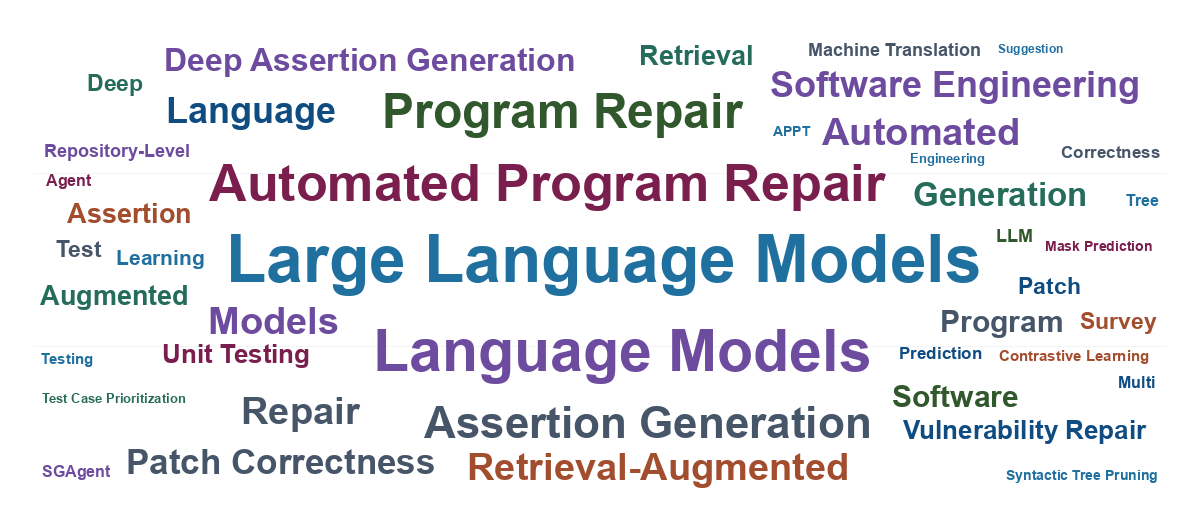
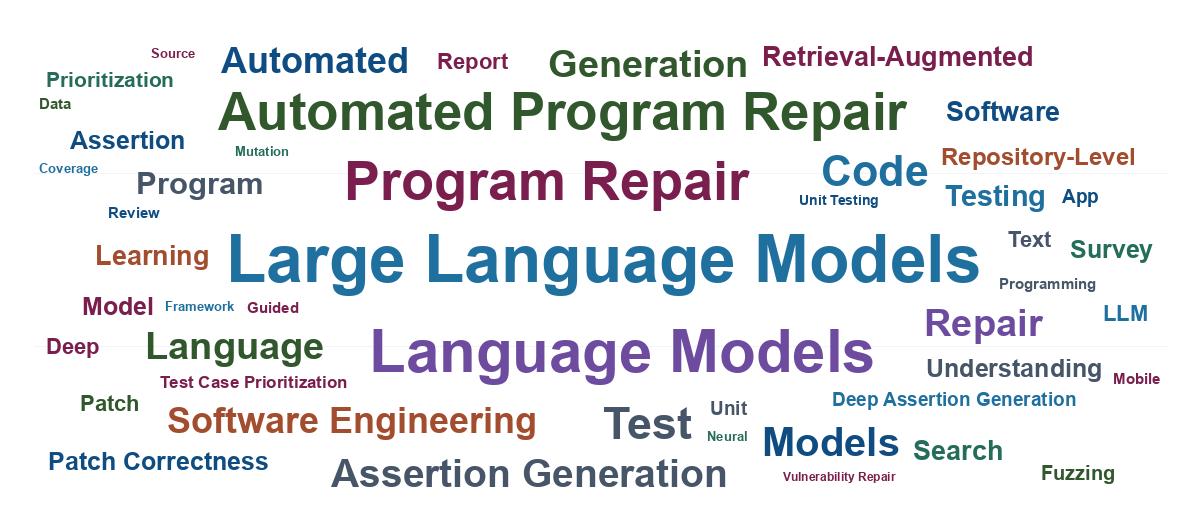
Update publications from Google Sites

diff --git a/assets/css/main.scss b/assets/css/main.scss
@@ -186,7 +186,7 @@ h1:before, .anchor:before {
     object-fit: contain;
 }
 
-.page__content li p code + strong + br + strong {
+.page__content li p br ~ strong {
     color: #7b1fa2;
     font-weight: 700;
 }

diff --git a/_pages/publications.md b/_pages/publications.md
@@ -8,72 +8,248 @@ author_profile: true
 
 [[Selected Publications](/#selected-publications)] [[Google Scholar](https://scholar.google.com/citations?user=zRzZ8HwAAAAJ&hl=zh-CN)] [[DBLP](https://dblp.org/pid/231/4867.html)] [[GitHub](https://github.com/QuanjunZhang)]
 
-Note: equal contribution is noted where applicable.
+Note: equal contribution is noted where applicable. An asterisk (*) is preserved where marked in the source list.
 
-- `TOSEM'26` **SGAgent: Suggestion-Guided LLM-Based Multi-Agent Framework for Repository-Level Software Repair**.  
+## Preprints
+
+- `Preprint` **A Critical Review of Large Language Model on Software Engineering: An Example from ChatGPT and Automated Program Repair**.  
+  **Quanjun Zhang**, Tongke Zhang, Juan Zhai, Chunrong Fang, Bowen Yu, Weisong Sun, Zhenyu Chen.  
+  [[PDF](https://arxiv.org/pdf/2310.08879.pdf)] [[Data](https://github.com/iSEngLab/EvalGPTFix)]
+
+- `Preprint` **Program repair: Automated vs. manual**.  
+  **Quanjun Zhang**, Yuan Zhao, Weisong Sun, Chunrong Fang, Ziyuan Wang, Lingming Zhang.  
+  [[PDF](https://arxiv.org/pdf/2203.05166.pdf)] [[Data](https://github.com/QuanjunZhang/2022-APREmpirical)]
+
+- `Preprint` **No Man is an Island: Towards Fully Automatic Programming by Code Search, Code Generation and Program Repair**.  
+  **Quanjun Zhang**, Chunrong Fang, Ye Shang, Tongke Zhang, Shengcheng Yu, Zhenyu Chen.  
+  [[PDF](https://arxiv.org/pdf/2203.05166.pdf)] [[Data](https://github.com/QuanjunZhang/2022-APREmpirical)]
+
+## Publications
+
+- `ISSTA'26` **Understanding and Improving Model Editing for Secure Code Generation**. (<span class="ccf-a">CCF-A</span>)  
+  Weifeng Sun, **Quanjun Zhang**, Yuchen Chen, Chengran Yang, Gou Tan, and David Lo.  
+  In *Proceedings of the ACM SIGSOFT International Symposium on Software Testing and Analysis*, pages to appear.
+
+- `ISSTA'26` **Towards More Realistic Assertion Generation under Mixed-Assertion Scenario**. (<span class="ccf-a">CCF-A</span>)  
+  Hongyan Li, Kunpeng E, Weifeng Sun, **Quanjun Zhang**, and Meng Yan.  
+  In *Proceedings of the ACM SIGSOFT International Symposium on Software Testing and Analysis*, pages to appear.
+
+- `ASE'26` **PSearch: Search-based Patch Generation in the Era of LLM-based Automated Program Repair**. (<span class="ccf-a">CCF-A</span>)  
+  Haichuan Hu, Ye Shang, Weifeng Sun, and **Quanjun Zhang**\*.  
+  In *Proceedings of the IEEE/ACM International Conference on Automated Software Engineering*, pages to appear.
+
+- `IJCV'26` **UBA: A Unified Black-Box Adversarial Testing for Object Detection via Visualization-Based Contextual Reconstruction**. (<span class="ccf-a">CCF-A</span>)  
+  Jiawei Liu, Weisi Luo, Chunrong Fang, **Quanjun Zhang**, Junyi Xie, Dezhi Li, Jiang Wang, Zhenyu Chen.  
+  In *International Journal of Computer Vision*, pages to appear, 2026.
+
+- `TOSEM'26` **SGAgent: Suggestion-Guided LLM-Based Multi-Agent Framework for Repository-Level Software Repair**. (<span class="ccf-a">CCF-A</span>)  
   **Quanjun Zhang**, Chengyu Gao, Yu Han, Ye Shang, Chunrong Fang, Zhenyu Chen, Liang Xiao.  
-  In *ACM Transactions on Software Engineering and Methodology*, pages to appear, 2026. <span class="ccf-a">(CCF-A)</span>
+  In *ACM Transactions on Software Engineering and Methodology*, pages to appear, 2026.
 
-- `EMSE'26` **ComPass: Contrastive Learning for Automated Patch Correctness Assessment in Program Repair**.  
+- `EMSE'26` **ComPass: Contrastive Learning for Automated Patch Correctness Assessment in Program Repair**. (CCF-B)  
   **Quanjun Zhang**, Ye Shang, Haichuan Hu, Chunrong Fang, Zhenyu Chen, Liang Xiao.  
-  In *Empirical Software Engineering*, pages to appear, 2026. (CCF-B)
+  In *Empirical Software Engineering*, pages to appear, 2026.
 
-- `TOSEM'26` **A Systematic Literature Review on Large Language Models for Automated Program Repair**.  
+- `TOSEM'26` **A Systematic Literature Review on Large Language Models for Automated Program Repair**. (<span class="ccf-a">CCF-A</span>)  
   **Quanjun Zhang**, Chunrong Fang, Yuxiang Ma, Yang Xie, Weisong Sun, Yun Yang, Zhenyu Chen.  
-  In *ACM Transactions on Software Engineering and Methodology*, pages to appear, 2026. <span class="ccf-a">(CCF-A)</span>
+  In *ACM Transactions on Software Engineering and Methodology*, pages to appear, 2026. [[arXiv](https://arxiv.org/abs/2405.01466)] [[Data](https://github.com/iSEngLab/AwesomeLLM4APR)]
 
-- `TSE'25` **Improving Retrieval-Augmented Deep Assertion Generation via Joint Training**.  
-  **Quanjun Zhang**, Chunrong Fang, Yi Zheng, Ruixiang Qian, Shengcheng Yu, Yuan Zhao, Jianyi Zhou, Yun Yang, Tao Zheng, Zhenyu Chen.  
-  In *IEEE Transactions on Software Engineering*, pages to appear, 2025. <span class="ccf-a">(CCF-A)</span> [[Data](https://github.com/iSEngLab/AG-RAG)]
+- `CSR'26` **A survey of large language models for legal tasks: Progress, prospects and challenges**. (SCI-Q1, IF 12.8)  
+  Congqing He, Haichuan Hu, Yanli Li, Hao Zhang, **Quanjun Zhang**.  
+  In *Computer Science Review*, pages to appear, 2026.
 
-- `TOSEM'25` **Improving Deep Assertion Generation via Fine-Tuning Retrieval-Augmented Pre-trained Language Models**.  
-  **Quanjun Zhang**, Chunrong Fang, Yi Zheng, Yaxin Zhang, Yuan Zhao, Rubing Huang, Jianyi Zhou, Yun Yang, Tao Zheng, Zhenyu Chen.  
-  In *ACM Transactions on Software Engineering and Methodology*, pages to appear, 2025. <span class="ccf-a">(CCF-A)</span>
+- `TOSEM'26` **Abstract Syntax Tree for Programming Language Understanding and Representation**.  
+  Weisong Sun, Chunrong Fang, Yun Miao, Mengzhe Yuan, Zhenpeng Chen, Yuchen Chen, **Quanjun Zhang**, An Guo, Xiang Chen, Zhenyu Chen.  
+  In *ACM Transactions on Software Engineering and Methodology*, pages to appear, 2026.
 
-- `SCIS'25` **A Survey on Large Language Models for Software Engineering**.  
+- `QRS'26` **AttnProbe: Steering LLM Attention for Unit Test Generation via Coverage-Guided Pruning and Mutation Feedback**. (CCF-C)  
+  Siqi Gu, Jiawei Liu, Zhaowei Zong, **Quanjun Zhang**, Zhenyu Chen.  
+  In *International Conference on Software Quality, Reliability and Security*, pages to appear, 2026.
+
+- `FSE'25-Tool` **A Multi-Agent LLM Framework for Repository-Level Unit Test Generation**. (<span class="ccf-a">CCF-A</span>)  
+  Ye Shang, **Quanjun Zhang**\*, Zhenyu Zhan, Ke Huang, Chunrong Fang\*, Zhenyu Chen.  
+  In *ACM International Conference on the Foundations of Software Engineering, Tool Demonstrations Track*, pages to appear.
+
+- `TOSEM'25` **Pre-trained Model-based Actionable Warning Identification: A Feasibility Study**. (<span class="ccf-a">CCF-A</span>)  
+  Xiuting Ge, Chunrong Fang, **Quanjun Zhang**, Daoyuan Wu, Bowen Yu, Qirui Zheng, An Guo, Shang-wei Lin, Zhihong Zhao, Yang Liu, Zhenyu Chen.  
+  In *ACM Transactions on Software Engineering and Methodology*, pages to appear, 2025.
+
+- `SCIS'25` **A Survey on Large Language Models for Software Engineering**. (<span class="ccf-a">CCF-A</span>)  
   **Quanjun Zhang**, Chunrong Fang, Yang Xie, Yaxin Zhang, Shengcheng Yu, Weisong Sun, Yun Yang, Zhenyu Chen.  
-  In *SCIENCE CHINA Information Sciences*, pages to appear, 2025. <span class="ccf-a">(CCF-A)</span>
+  In *SCIENCE CHINA Information Sciences*, pages to appear, 2025. [[arXiv](https://arxiv.org/abs/2312.15223)] [[Data](https://github.com/iSEngLab/AwesomeLLM4SE)]
 
-- `FCS'25` **TestBench: Evaluating Class-Level Test Case Generation Capability of Large Language Models**.  
+- `CSUR'25` **Vision-Based Mobile App GUI Testing: A Survey**. (SCI-Q1)  
+  Shengcheng Yu, Chunrong Fang, Ziyuan Tuo, **Quanjun Zhang**, Chunyang Chen, Zhenyu Chen, Zhendong Su.  
+  In *ACM Computing Surveys*, pages to appear, 2025.
+
+- `TOSEM'25` **Hidden Backdoor Attack against Neural Code Search Models**. (<span class="ccf-a">CCF-A</span>)  
+  Yuchen Chen, Weisong Sun, Chunrong Fang, **Quanjun Zhang**, Zhenyu Chen, Xiangyu Zhang.  
+  In *ACM Transactions on Software Engineering and Methodology*, pages to appear, 2025.
+
+- `FCS'25` **TestBench: Evaluating Class-Level Test Case Generation Capability of Large Language Models**. (CCF-B)  
   **Quanjun Zhang**, Ye Shang, Chunrong Fang, Siqi Gu, Jianyi Zhou, Zhenyu Chen.  
-  In *Frontiers of Computer Science*, pages to appear, 2025. (CCF-B)
+  In *Frontiers of Computer Science*, pages to appear, 2025.
 
-- `JOS'25` **Research Progress of Retrieval-Augmented Generation in Software Engineering**.  
-  **Quanjun Zhang**, Yang Xie, Chunrong Fang, Shengcheng Yu, Yuan Zhao, Zhenyu Chen.  
-  In *Journal of Software* (in Chinese), pages to appear, 2025. <span class="ccf-a">(CCF-A)</span>
+- `TOSEM'25` **ACTesting: Automated Cross-modal Testing Method of Text-to-Image Software**. (<span class="ccf-a">CCF-A</span>)  
+  Siqi Gu, Chunrong Fang, **Quanjun Zhang**, Zhenyu Chen.  
+  In *ACM Transactions on Software Engineering and Methodology*, pages to appear, 2025.
 
-- `TOSEM'24` **Exploring Automated Assertion Generation via Large Language Models**.  
-  **Quanjun Zhang**, Weifeng Sun, Chunrong Fang, Bowen Yu, Hongyan Li, Meng Yan, Jianyi Zhou, Zhenyu Chen.  
-  In *ACM Transactions on Software Engineering and Methodology*, pages to appear, 2024. <span class="ccf-a">(CCF-A)</span>
+- `TOSEM'25` **Security of Language Models for Code: A Systematic Literature Review**. (<span class="ccf-a">CCF-A</span>)  
+  Yuchen Chen, Weisong Sun, Chunrong Fang, Zhenpeng Chen, Yifei Ge, Tingxu Han, **Quanjun Zhang**, Yang Liu, Zhenyu Chen, Baowen Xu.  
+  In *ACM Transactions on Software Engineering and Methodology*, pages to appear, 2025.
 
-- `TSE'24` **APPT: Boosting Automated Patch Correctness Prediction via Fine-tuning Pre-trained Models**.  
-  **Quanjun Zhang**, Chunrong Fang, Weisong Sun, Yan Liu, Tieke He, Xiaodong Hao, Zhenyu Chen.  
-  In *IEEE Transactions on Software Engineering*, pages to appear, 2024. <span class="ccf-a">(CCF-A)</span>
+- `TSE'25` **Improving Retrieval-Augmented Deep Assertion Generation via Joint Training**. (<span class="ccf-a">CCF-A</span>)  
+  **Quanjun Zhang**, Chunrong Fang, Yi Zheng, Ruixiang Qian, Shengcheng Yu, Yuan Zhao, Jianyi Zhou, Yun Yang, Tao Zheng, Zhenyu Chen.  
+  In *IEEE Transactions on Software Engineering*, pages to appear, 2025.
 
-- `TOSEM'24` **Machine Translation Testing via Syntactic Tree Pruning**.  
-  **Quanjun Zhang**, Juan Zhai, Chunrong Fang, Jiawei Liu, Weisong Sun, Haichuan Hu, Qingyu Wang.  
-  In *ACM Transactions on Software Engineering and Methodology*, 39 pages, 2024. <span class="ccf-a">(CCF-A)</span> [[Data](https://github.com/iSEngLab/STP)]
+- `TOSEM'25` **Improving Deep Assertion Generation via Fine-Tuning Retrieval-Augmented Pre-trained Language Models**. (<span class="ccf-a">CCF-A</span>)  
+  **Quanjun Zhang**, Chunrong Fang, Yi Zheng, Yaxin Zhang, Yuan Zhao, Rubing Huang, Jianyi Zhou, Yun Yang, Tao Zheng, Zhenyu Chen.  
+  In *ACM Transactions on Software Engineering and Methodology*, pages to appear, 2025.
 
-- `TOSEM'23` **A Survey of Learning-based Automated Program Repair**.  
-  **Quanjun Zhang**, Chunrong Fang, Yuxiang Ma, Weisong Sun, Zhenyu Chen.  
-  In *ACM Transactions on Software Engineering and Methodology*, 69 pages, 2023. <span class="ccf-a">(CCF-A)</span> [[PDF](https://arxiv.org/pdf/2308.12533.pdf)] [[Data](https://github.com/iSEngLab/AwesomeLearningAPR)]
-
-- `TDSC'23` **Pre-trained Model-based Automated Software Vulnerability Repair: How Far are We?**  
-  **Quanjun Zhang**, Chunrong Fang, Bowen Yu, Weisong Sun, Tongke Zhang, Zhenyu Chen.  
-  In *IEEE Transactions on Dependable and Secure Computing*, pages to appear, 2023. <span class="ccf-a">(CCF-A)</span> [[PDF](https://arxiv.org/pdf/2309.09308.pdf)] [[Data](https://github.com/iSEngLab/LLM4VulFix)]
-
-- `ASE'23` **GAMMA: Revisiting Template-based Automated Program Repair via Mask Prediction**.  
-  **Quanjun Zhang**, Chunrong Fang, Tongke Zhang, Bowen Yu, Weisong Sun, Zhenyu Chen.  
-  In *38th IEEE/ACM International Conference on Automated Software Engineering*, pages to appear, 2023. <span class="ccf-a">(CCF-A)</span>
-
-- `JSS'22` **Test Case Prioritization Using Partial Attention**.  
-  **Quanjun Zhang**, Chunrong Fang, Weisong Sun, Shencheng Yu, Yutao Xu, Yulei Liu.  
-  In *Journal of Systems & Software*, pages to appear, 2022. (CCF-B)
-
-- `ISSTA'25` **A Large-scale Empirical Study on Fine-tuning Large Language Models for Unit Testing**.  
+- `ISSTA'25` **A Large-scale Empirical Study on Fine-tuning Large Language Models for Unit Testing**. (<span class="ccf-a">CCF-A</span>, Equal Contribution)  
   Ye Shang, **Quanjun Zhang** (equal contribution), Chunrong Fang, Siqi Gu, Jianyi Zhou, Zhenyu Chen.  
-  In *Proceedings of the ACM SIGSOFT International Symposium on Software Testing and Analysis*, pages to appear, 2025. <span class="ccf-a">(CCF-A)</span>
+  In *Proceedings of the ACM SIGSOFT International Symposium on Software Testing and Analysis (ISSTA 2025)*, pages to appear. [Acceptance rate: 4.16% (23 / 553)]
 
-- `ISSTA'22` **CIRCLE: Continual Repair across Programming Languages**.  
+- `JOS'25` **Deep Learning Operator Testing for RISC-V Architecture**. (<span class="ccf-a">CCF-A</span>)  
+  Jiawei Liu, Yan Gao, **Quanjun Zhang**, Ye Shang, Chunrong Fang, Zhenyu Chen.  
+  In *Journal of Software* (in Chinese), pages to appear, 2025.
+
+- `JOS'25` **Research Progress of Retrieval-Augmented Generation in Software Engineering**. (<span class="ccf-a">CCF-A</span>)  
+  **Quanjun Zhang**, Yang Xie, Chunrong Fang\*, Shengcheng Yu, Yuan Zhao, Zhenyu Chen.  
+  In *Journal of Software* (in Chinese), pages to appear, 2025.
+
+- `JOS'25` **Semantic Matching-based Cross-Platform Mobile App Test Script Record and Replay via Large Language Models**. (<span class="ccf-a">CCF-A</span>)  
+  Shengcheng Yu, Chunrong Fang\*, Ye Zhong, **Quanjun Zhang**, Qin Liu, Jia Liu, Tao Zheng, Zhenyu Chen.  
+  In *Journal of Software* (in Chinese), pages to appear, 2024.
+
+- `TSE'24` **Enhanced Crowdsourced Test Report Prioritization via Image-and-Text Semantic Understanding and Feature Integration**. (<span class="ccf-a">CCF-A</span>)  
+  Chunrong Fang, Shengcheng Yu, **Quanjun Zhang**, Xin Li, Yulei Liu, and Zhenyu Chen.  
+  In *IEEE Transactions on Software Engineering*, pages to appear, 2024.
+
+- `APR'25` **Can GPT-O1 Kill All Bugs? An Evaluation of GPT-Family LLMs on QuixBugs**. (Corresponding Author)  
+  Haichuan Hu, Ye Shang, Guolin Xu, Congqing He, **Quanjun Zhang**\*.  
+  In *The 6th International Workshop on Automated Program Repair (APR 2025)*.
+
+- `FSE'25` **Eliminating Backdoors in Neural Code Models for Secure Code Understanding**. (<span class="ccf-a">CCF-A</span>)  
+  Weisong Sun, Yuchen Chen, Chunrong Fang, Yebo Feng, Yuan Xiao, An Guo, **Quanjun Zhang**, Zhenyu Chen, Baowen Xu, Yang Liu.  
+  In *Proceedings of the ACM International Conference on the Foundations of Software Engineering (FSE 2025)*, pages to appear.
+
+- `QRS'25` **Chattss: Improving Test Suite Simplification Via Large Language Models**. (CCF-C)  
+  Gaolei Yi, Yuan Zhao, Runkang Feng, **Quanjun Zhang**, Zhenyu Chen.  
+  In *International Conference on Software Quality, Reliability and Security (QRS)*, pages to appear.
+
+- `TOSEM'24` **Exploring Automated Assertion Generation via Large Language Models**. (<span class="ccf-a">CCF-A</span>)  
+  **Quanjun Zhang**, Weifeng Sun, Chunrong Fang, Bowen Yu, Hongyan Li, Meng Yan, Jianyi Zhou, Zhenyu Chen.  
+  In *ACM Transactions on Software Engineering and Methodology*, pages to appear, 2024.
+
+- `TOSEM'24` **FunFuzz: Greybox Fuzzing with Function Significance**. (<span class="ccf-a">CCF-A</span>)  
+  Ruixiang Qian, **Quanjun Zhang**, Chunrong Fang, Lihua Guo, Zhenyu Chen.  
+  In *ACM Transactions on Software Engineering and Methodology*, pages to appear, 2024.
+
+- `FSE'24` **Semi-Supervised Crowdsourced Test Report Clustering via Screenshot-Text Binding Rules**. (<span class="ccf-a">CCF-A</span>)  
+  Shengcheng Yu, Chunrong Fang\*, **Quanjun Zhang**, Mingzhe Du, Jia Liu, Zhenyu Chen.  
+  In *Proceedings of the 32nd ACM Symposium on the Foundations of Software Engineering (FSE '24)*, July 15--19, 2024, Porto de Galinhas, Brazil.
+
+- `TOSEM'24` **DiPri: Distance-based Seed Prioritization for Greybox Fuzzing**. (<span class="ccf-a">CCF-A</span>)  
+  Ruixiang Qian, **Quanjun Zhang**, Chunrong Fang, Yang Ding, Shun Li, Zhenyu Chen.  
+  In *ACM Transactions on Software Engineering and Methodology*, pages to appear, 2024.
+
+- `TOSEM'24` **A Survey of Source Code Search: A 3-Dimensional Perspective**. (<span class="ccf-a">CCF-A</span>)  
+  Weisong Sun, Chunrong Fang, Yifei Ge, Yuling Hu, Yuchen Chen, **Quanjun Zhang**, Xiuting Ge, Yang Liu, Zhenyu Chen.  
+  In *ACM Transactions on Software Engineering and Methodology*, pages to appear, 2024.
+
+- `SCIS'24` **Improving Actionable Warning Identification via the Refined Warning-inducing Context Representation**. (<span class="ccf-a">CCF-A</span>)  
+  Xiuting Ge, Chunrong Fang, Xuanye Li, **Quanjun Zhang**, Jia Liu, Zhihong Zhao, Zhenyu Chen.  
+  In *SCIENCE CHINA Information Sciences*, pages to appear, 2024.
+
+- `TSE'24` **ESALE: Enhancing Code-Summary Alignment Learning for Source Code Summarization**. (<span class="ccf-a">CCF-A</span>)  
+  Chunrong Fang, Weisong Sun, Yuchen Chen, Xiao Chen, Zhao Wei, **Quanjun Zhang**, Yudu You, Bin Luo, Yang Liu, Zhenyu Chen.  
+  In *IEEE Transactions on Software Engineering*, 50(8):2077-2095, 2024.
+
+- `TSE'24` **APPT: Boosting Automated Patch Correctness Prediction via Fine-tuning Pre-trained Models**. (<span class="ccf-a">CCF-A</span>)  
+  **Quanjun Zhang**, Chunrong Fang, Weisong Sun, Yan Liu, Tieke He, Xiaodong Hao, Zhenyu Chen.  
+  In *IEEE Transactions on Software Engineering*, pages to appear, 2024. [[arXiv](https://arxiv.org/abs/2301.12453)] [[Data](https://github.com/iSEngLab/APPT)]
+
+- `TOSEM'24` **Machine Translation Testing via Syntactic Tree Pruning**. (<span class="ccf-a">CCF-A</span>)  
+  **Quanjun Zhang**, Juan Zhai, Chunrong Fang, Jiawei Liu, Weisong Sun, Haichuan Hu and Qingyu Wang.  
+  In *ACM Transactions on Software Engineering and Methodology*, 39 pages, 2024. [[PDF](https://arxiv.org/abs/2401.00751)] [[Data](https://github.com/iSEngLab/STP)]
+
+- `TOSEM'23` **A Survey of Learning-based Automated Program Repair**. (<span class="ccf-a">CCF-A</span>, SCI Q1)  
+  **Quanjun Zhang**, Chunrong Fang, Yuxiang Ma, Weisong Sun, Zhenyu Chen.  
+  In *ACM Transactions on Software Engineering and Methodology*, 69 pages, 2023. [[PDF](https://arxiv.org/abs/2301.03270)] [[Data](https://github.com/iSEngLab/AwesomeLearningAPR)]
+
+- `TDSC'23` **Pre-trained Model-based Automated Software Vulnerability Repair: How Far are We?**. (<span class="ccf-a">CCF-A</span>, SCI Q1)  
+  **Quanjun Zhang**, Chunrong Fang, Bowen Yu, Weisong Sun, Tongke Zhang, Zhenyu Chen.  
+  In *IEEE Transactions on Dependable and Secure Computing*, pages to appear, 2023. [[PDF](https://arxiv.org/pdf/2308.12533.pdf)] [[Data](https://github.com/iSEngLab/LLM4VulFix)]
+
+- `ASE'23` **GAMMA: Revisiting Template-based Automated Program Repair via Mask Prediction**. (<span class="ccf-a">CCF-A</span>)  
+  **Quanjun Zhang**, Chunrong Fang, Tongke Zhang, Bowen Yu, Weisong Sun, Zhenyu Chen.  
+  In *38th IEEE/ACM International Conference on Automated Software Engineering (ASE 2023)*, pages to appear, 2023. [[PDF](https://arxiv.org/pdf/2309.09308.pdf)] [[Data](https://github.com/iSEngLab/AwesomeLearningAPR)]
+
+- `TOSEM'23` **An Extractive-and-Abstractive Framework for Source Code Summarization**. (<span class="ccf-a">CCF-A</span>, SCI Q1)  
+  Weisong Sun, Chunrong Fang, Yuchen Chen, **Quanjun Zhang**, Guanhong Tao, Yudu You, Tingxu Han, Yifei Ge, Yuling Hu, Bin Luo, Zhenyu Chen.  
+  In *ACM Transactions on Software Engineering and Methodology*, 40 pages, 2023.
+
+- `ACL'23` **Backdooring Neural Code Search**. (<span class="ccf-a">CCF-A</span>)  
+  Weisong Sun, Yuchen Chen, Guanhong Tao, Chunrong Fang, Xiangyu Zhang, **Quanjun Zhang**, Bin Luo.  
+  In *The 61st Annual Meeting of the Association for Computational Linguistics*, July 9--14, 2023, pages to appear, Toronto, Canada.
+
+- `TSE'23` **Mobile App Crowdsourced Test Report Consistency Detection via Deep Image-and-Text Fusion Understanding**. (<span class="ccf-a">CCF-A</span>)  
+  Shengcheng Yu, Chunrong Fang, **Quanjun Zhang**, Zhihao Cao, Yexiao Yun, Zhenfei Cao, Kai Mei, Zhenyu Chen.  
+  In *IEEE Transactions on Software Engineering*, pages to appear, 2023.
+
+- `Globecom'23` **OATGA: Optimizing Adversarial Training via Genetic Algorithm for Automatic Modulation Classification**. (EI)  
+  Zhida Bao, Jiawei He, **Quanjun Zhang**, Chunrong Fang, Keshav Sood and Yun Lin.  
+  In *IEEE Global Communications Conference*, December 4--8, 2023, pages to appear, Kuala Lumpur, Malaysia.
+
+- `Fuzzing'23` **DiPri: Distance-Based Seed Prioritization for Greybox Fuzzing (Registered Report)**. (EI)  
+  Ruixiang Qian, **Quanjun Zhang**, Chunrong Fang, Zhenyu Chen.  
+  In *Proceedings of the 2nd International Fuzzing Workshop*, co-located with ISSTA'23, pages to appear, 2023.
+
+- `IST'22` **Test case classification via few-shot learning**. (CCF-B, SCI Q2)  
+  Yuan Zhao, Sining Liu, **Quanjun Zhang**, Xiuting Ge, Jia Liu.  
+  In *Information and Software Technology*, pages to appear, 2023.
+
+- `ASE'22-Tool` **ElecDaug: Electromagnetic Data Augmentation for Model Repair based on Metamorphic Relation**. (<span class="ccf-a">CCF-A</span>)  
+  Jiawei He, Zhida Bao, **Quanjun Zhang**, Weisong Sun, Jiawei Liu, Chunrong Fang, Yun Lin.  
+  In *The 37th IEEE/ACM International Conference on Automated Software Engineering*, October 10--14, 2022, pages to appear, Michigan, USA.
+
+- `JSS'22` **Test Case Prioritization Using Partial Attention**. (CCF-B, SCI Q2)  
+  **Quanjun Zhang**, Chunrong Fang, Weisong Sun, Shencheng Yu, Yutao Xu, Yulei Liu.  
+  In *Journal of Systems & Software*, pages to appear, 2022.
+
+- `DSA'22` **Interactive Patch Filtering via Test Generation**. (EI)  
+  **Quanjun Zhang**, Xu Zhai, Shicheng Xu, Wanmin Huang, Jingui Zhang, Yaoming Fan.  
+  In *2022 9th International Conference on Dependable Systems and Their Applications (DSA)*, pages to appear, 2022.
+
+- `DSA'22` **Test case classification via few-shot learning**. (EI)  
+  Yuan Zhao, Sining Liu, **Quanjun Zhang**, Xiuting Ge, Jia Liu.  
+  In *2022 9th International Conference on Dependable Systems and Their Applications (DSA)*, pages to appear, 2022.
+
+- `IST'22` **Test case recommendation based on balanced distance of test targets**. (CCF-B, SCI Q2)  
+  Weisong Sun, **Quanjun Zhang**, Chunrong Fang, Yuchen Chen, Xingya Wang, Ziyuan Wang.  
+  In *Information and Software Technology*, pages to appear, 2022.
+
+- `ISSTA'22` **CIRCLE: Continual Repair across Programming Languages**. (<span class="ccf-a">CCF-A</span>, Equal Contribution)  
   Wei Yuan, **Quanjun Zhang** (equal contribution), Tieke He, Chunrong Fang, Nguyen Quoc Viet Hung, Hongzhi Yin.  
-  In *Proceedings of the 31st ACM SIGSOFT International Symposium on Software Testing and Analysis*, July 18-22, 2022. <span class="ccf-a">(CCF-A)</span>
+  In *Proceedings of the 31st ACM SIGSOFT International Symposium on Software Testing and Analysis*, July 18--22, 2022, pages to appear, Virtual, South Korea.
+
+- `Internetware'22` **Investigating Coverage Guided Fuzzing with Mutation Testing**. (EI, Equal Contribution)  
+  Ruixiang Qian, **Quanjun Zhang**\*, Chunrong Fang, Lihua Guo.  
+  In *The 13th Asia-Pacific Symposium on Internetware*, June 11--12, 2022, pages to appear, Hohhot, China.
+
+- `ICSE'22-Tool` **TauLiM: Test Data Augmentation of LiDAR Point Cloud by Metamorphic Relation**. (<span class="ccf-a">CCF-A</span>)  
+  Ju Lin, Jiawei Liu, **Quanjun Zhang**, Xufan Zhang, Chunrong Fang.  
+  In *The 44th International Conference on Software Engineering*, Tool Demonstration, May 21--29, 2022, pages to appear, Pittsburgh, PA, USA.
+
+- `ICSE'22-Tool` **TauPad: Test Data Augmentation of Point Clouds by Adversarial Mutation**. (<span class="ccf-a">CCF-A</span>)  
+  Guandi Liu, Jiawei Liu, **Quanjun Zhang**, Chunrong Fang, Xufan Zhang.  
+  In *The 44th International Conference on Software Engineering*, Tool Demonstration, May 21--29, 2022, pages to appear, Pittsburgh, PA, USA.
+
+- `ICSE'22` **Code Search based on Context-aware Code Translation**. (<span class="ccf-a">CCF-A</span>)  
+  Weisong Sun, Chunrong Fang, Yuchen Chen, Guanhong Tao, Tingxu Han, **Quanjun Zhang**.  
+  In *The 44th International Conference on Software Engineering*, May 21--29, 2022, pages to appear, Pittsburgh, PA, USA.
+
+- `JSS'20` **Regression test case prioritization by code combinations coverage**. (CCF-B, SCI Q2)  
+  Rubing Huang, **Quanjun Zhang**, Dave Towey, Weifeng Sun, Jinfu Chen.  
+  In *Journal of Systems and Software*, 2020, to appear.